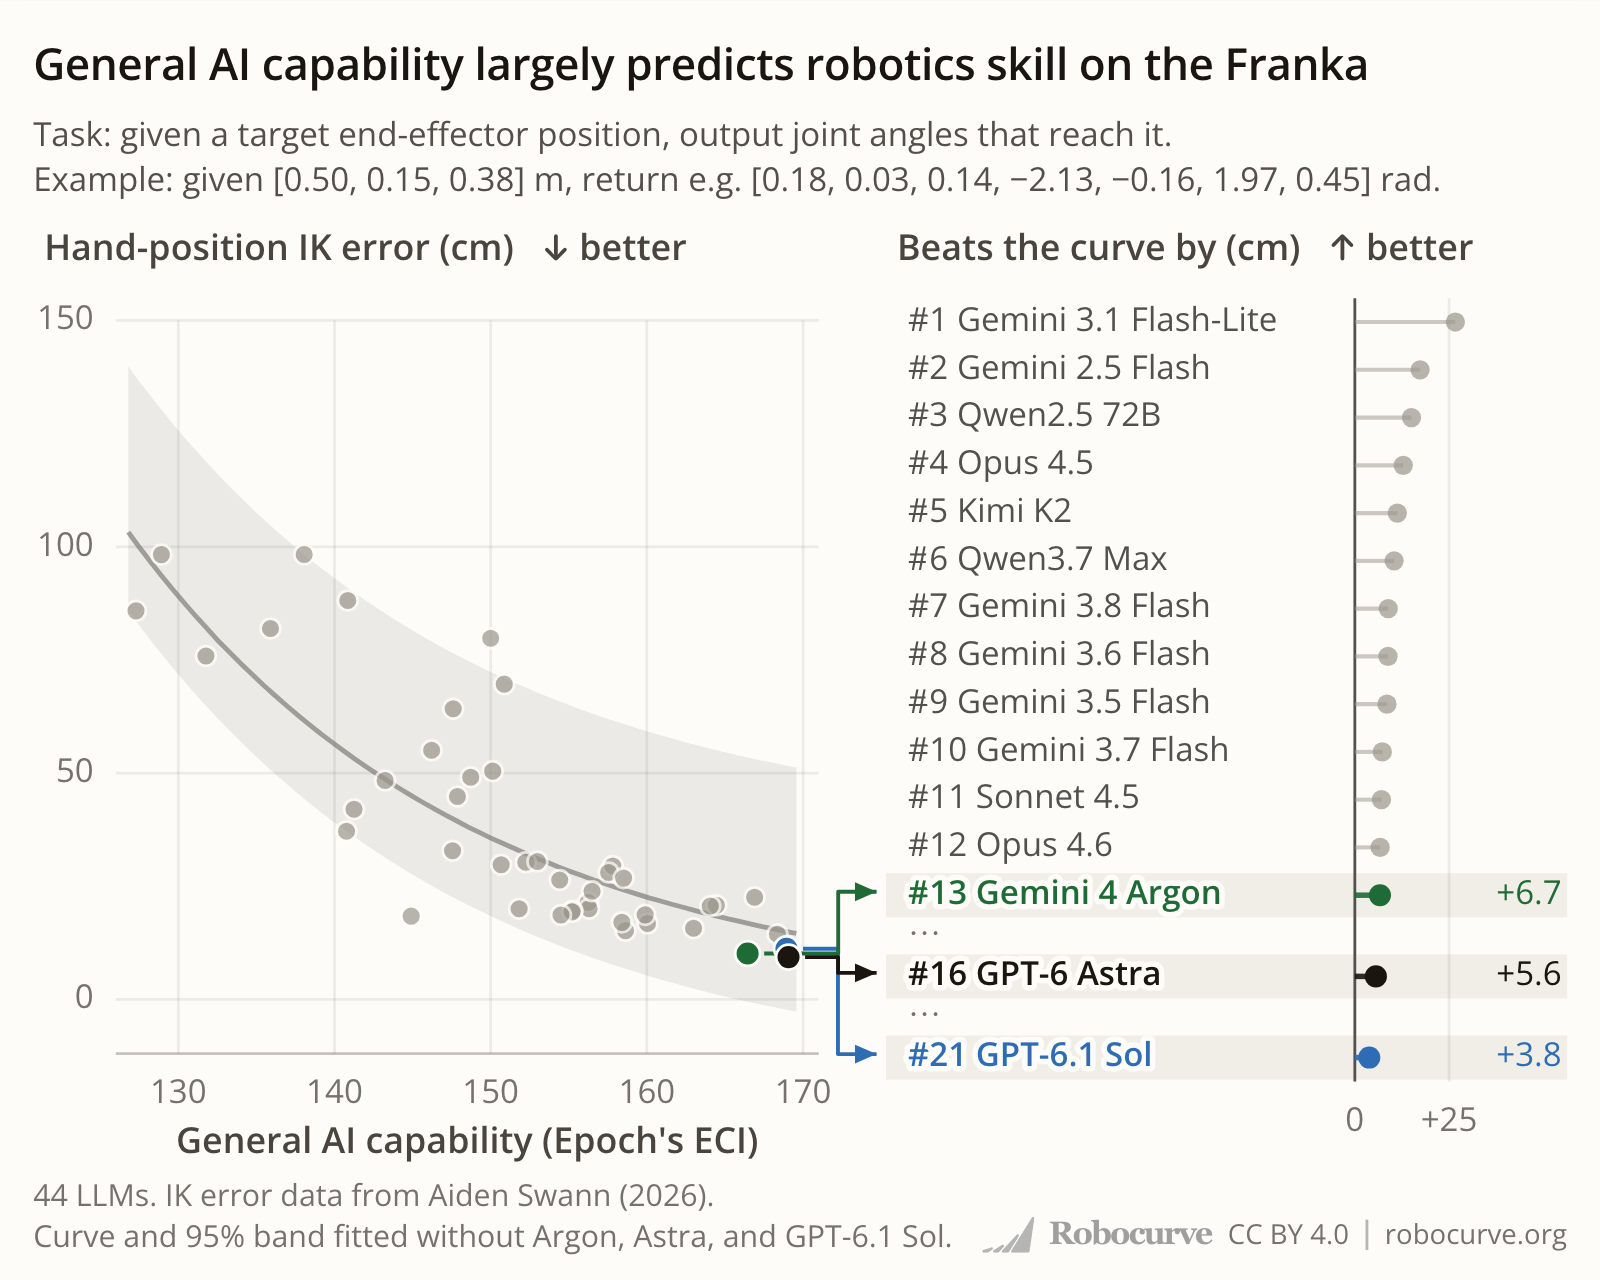
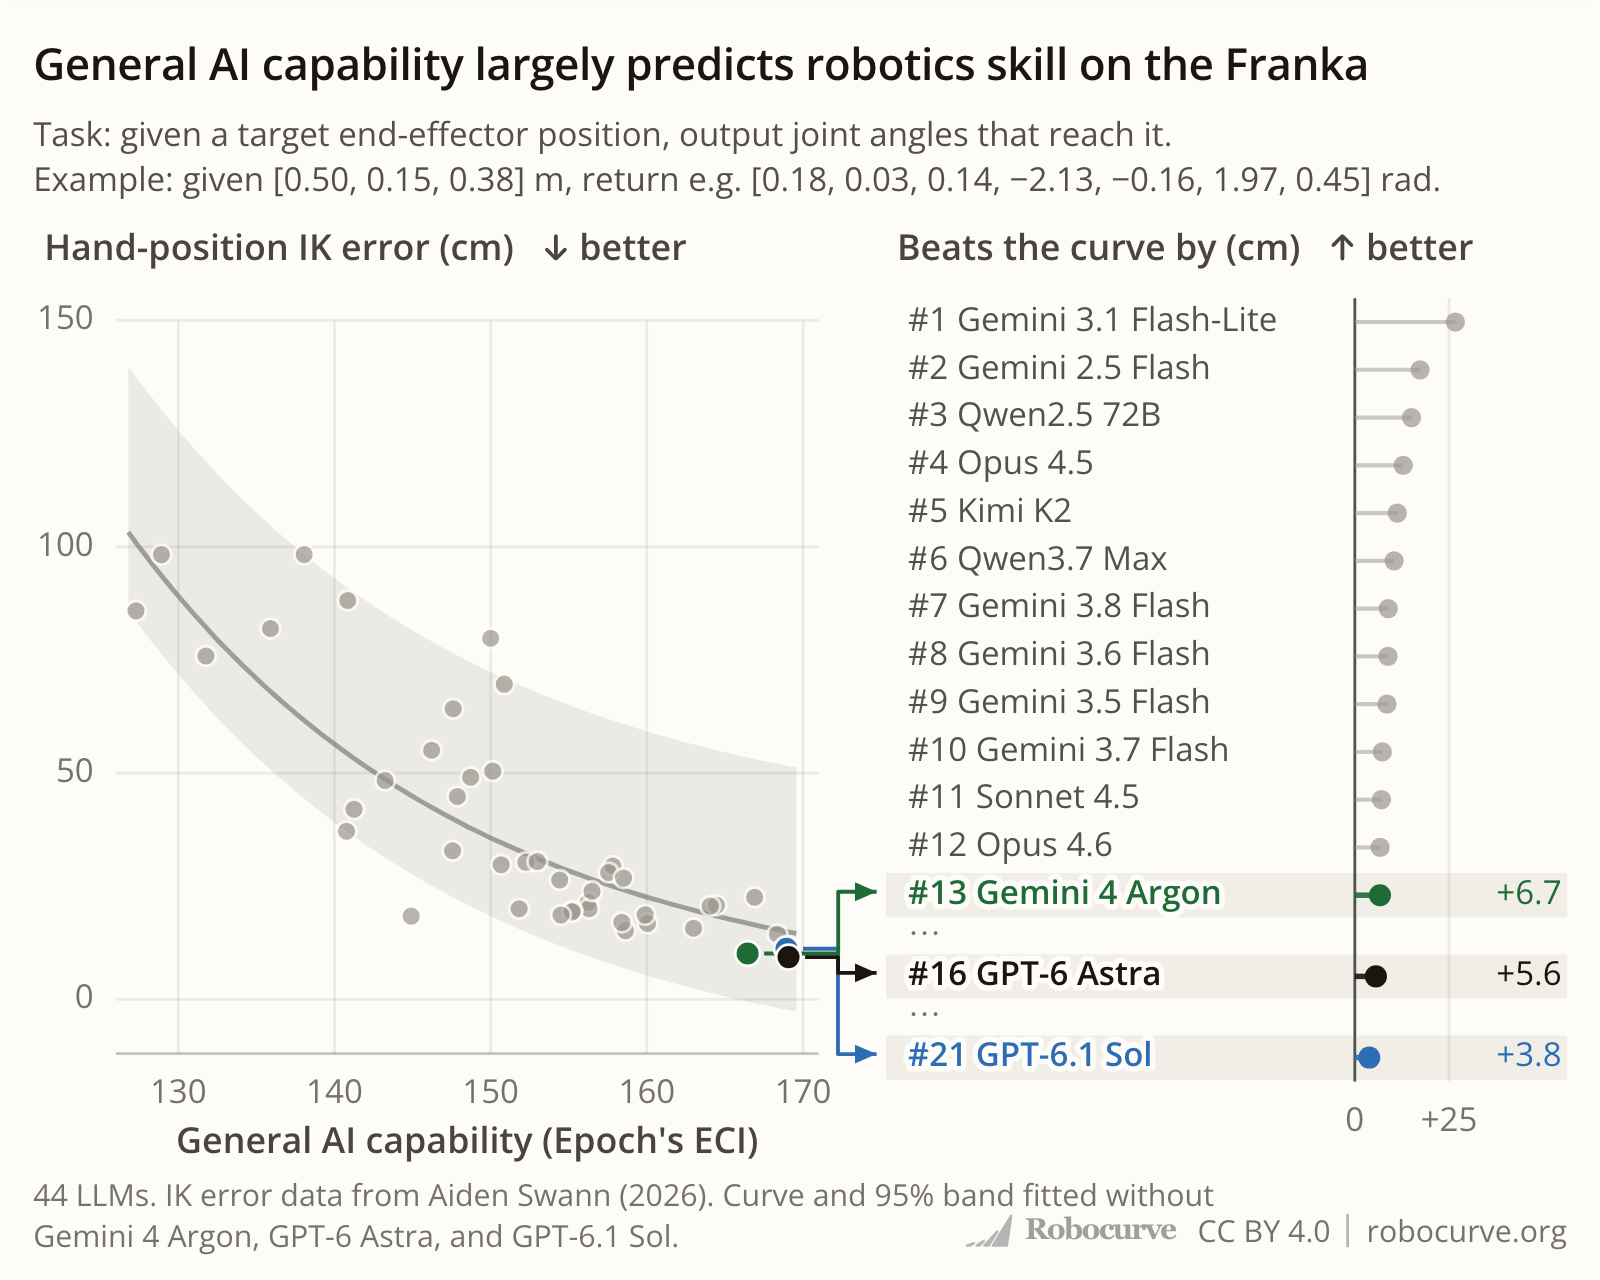
Nov-09: caption names Gemini 4 Argon, GPT-6 Astra and GPT-6.1 Sol in full

Changed region(s): [[0.0312, 0.9062, 0.9688, 1.0]]

diff --git a/tweets/2026/November/Nov-09/site/src/KinematicsCards.jsx b/tweets/2026/November/Nov-09/site/src/KinematicsCards.jsx
@@ -379,7 +379,7 @@ const KW_X = ['Beats the curve by (cm)', 'Beats the curve by (points)', 'Beats t
 const MOBILE_Y = ['Hand-position error (cm)', 'MCQs answered correctly (%)', 'IK error (cm)', 'Distance from real Panda (cm)'];
 function PairChart({ i, metric, topN = 0, mobile = false, wideLeft = false }) {
   const boxRef = useRef(null);
-  const cap = mobile ? <>44 LLMs. {['FK error', 'MCQ', 'IK error', 'Edited-arm'][i]} data from Aiden Swann (2026).<br />Curve and 95% band {wideLeft ? 'fitted without' : 'exclude'} Argon, Astra, and <span style={{ whiteSpace: 'nowrap' }}>GPT-6.1 Sol</span>.</> : PAIR_CAP(metric, topN, i === 1 ? 'points' : 'cm');
+  const cap = mobile ? <>44 LLMs. {['FK error', 'MCQ', 'IK error', 'Edited-arm'][i]} data from Aiden Swann (2026).{wideLeft ? <> Curve and 95% band fitted without<br />Gemini 4 Argon, GPT-6 Astra, and GPT-6.1 Sol.</> : <><br />Curve and 95% band exclude Argon, Astra, and <span style={{ whiteSpace: 'nowrap' }}>GPT-6.1 Sol</span>.</>}</> : PAIR_CAP(metric, topN, i === 1 ? 'points' : 'cm');
   // wideLeft (5:4): caption sits under the scatter so the ranking runs down to the footer (user 2026-11-09).
   return (
     <figure className="rc-chart" style={{ flex: 1, minHeight: 0, display: 'flex', flexDirection: 'column' }}>
@@ -392,12 +392,12 @@ function PairChart({ i, metric, topN = 0, mobile = false, wideLeft = false }) {
         <div style={{ flex: mobile ? 1.2 : 1, minWidth: 0, display: 'flex', position: 'relative', zIndex: 1 }}>{cloneElement(KIN_RANK_PANELS[i].chart(), { noCaption: true, rankOnly: true, topN, compact: mobile || topN > 0, ...(i === 3 ? { xTitle: 'Distance below predicted (cm)' } : {}), ...(mobile && i === 0 ? { xTitle: 'Error below predicted (cm)' } : {}), ...(wideLeft ? { xTitle: KW_X[i], hint: i < 3 ? '↑ better' : '↑ more overfit' } : {}) })}</div>
       </div>
       {wideLeft ? ( /* 5:4: caption left, attribution right on one row (user 2026-11-09) */
-        <div style={{ display: 'flex', alignItems: 'flex-end', justifyContent: 'space-between', gap: 8, marginTop: 4 }}>
+        <div style={{ position: 'relative', marginTop: 4 }}>{/* caption line 1 runs full width; line 2 is short and the attribution sits beside it */}
           <figcaption className="rc-chart-cap" style={{ margin: 0, whiteSpace: 'nowrap' }}>{cap}</figcaption>
-          <div style={{ display: 'flex', alignItems: 'center', gap: 6, flexShrink: 0 }}>
-            <Wordmark size={14} aria-label="Robocurve" style={{ opacity: 0.4, filter: 'grayscale(1)' }} />
-            <span style={{ display: 'inline-flex', alignItems: 'center', gap: 6, fontFamily: 'var(--font-sans)', fontSize: 10, color: 'rgba(27,21,15,0.6)' }}>
-              CC BY 4.0<span aria-hidden="true" style={{ width: 1, height: 11, background: 'rgba(27,21,15,0.3)' }} />robocurve.org
+          <div style={{ position: 'absolute', right: 0, bottom: 2, display: 'flex', alignItems: 'center', gap: 8 }}>
+            <Wordmark size={13} aria-label="Robocurve" style={{ opacity: 0.4, filter: 'grayscale(1)' }} />
+            <span style={{ display: 'inline-flex', alignItems: 'center', gap: 6, fontFamily: 'var(--font-sans)', fontSize: 11, color: 'rgba(27,21,15,0.6)' }}>
+              CC BY 4.0<span aria-hidden="true" style={{ width: 1, height: 12, background: 'rgba(27,21,15,0.3)' }} />robocurve.org
             </span>
           </div>
         </div>

diff --git a/tweets/2026/November/Nov-09/site/entry.jsx b/tweets/2026/November/Nov-09/site/entry.jsx
@@ -1,6 +1,6 @@
 /* Mounts the four 5:4 Franka Panda cards (KIN_WIDE54_PANELS, ids kw-*) exactly as the website's unlisted /draft/
    page framed them: 580x464 CSS each, shot at 1600/580 DPR by shot.mjs. The CSS below is copied from src/DraftPage.jsx of
-   robocurve/website (commit 67f4b5a, branch kinematics-draft); the attribution sits inside each card, beside the caption. */
+   robocurve/website (commit 113ce7f, branch kinematics-draft); the attribution sits inside each card, beside the caption. */
 import { createRoot } from 'react-dom/client';
 import { Panel } from './src/Trends.jsx';
 import { KIN_WIDE54_PANELS } from './src/KinematicsCards.jsx';

diff --git a/tweets/2026/November/Nov-09/README.md b/tweets/2026/November/Nov-09/README.md
@@ -39,7 +39,7 @@ Run `./regenerate.sh` to rebuild all four PNGs (1600x1280). It needs Python 3 wi
 
 ## How the images are made
 
-`site/` is a trimmed copy of the `robocurve/website` repo at commit `67f4b5a` (branch `kinematics-draft`,
+`site/` is a trimmed copy of the `robocurve/website` repo at commit `113ce7f` (branch `kinematics-draft`,
 2026-11-09). `package.json`, `package-lock.json`, `tokens/fonts-local.css` and the self-hosted Open Sans and Space
 Grotesk fonts are reused from `tweets/2026/October/Oct-19/site`; `build.mjs` and `shot.mjs` are adapted from it (card
 ids, output names, page title). Code comments in the copied files refer to their source repos (for example, the
@@ -58,5 +58,5 @@ website repo being private, or paths in Robocurve's internal social repo); they 
 ## Verification (2026-11-09)
 
 The regenerated PNGs are 1600x1280, the same as `original/`. Every point, label, arrow and line sits in the same
-place. Against the originals, the mean absolute pixel difference is 1.7 to 2.4 on the 0-255 scale, and 0.5 to 1.3%
+place. Against the originals, the mean absolute pixel difference is 1.8 to 2.5 on the 0-255 scale, and 0.5 to 1.3%
 of pixels differ by more than 64 levels, all at glyph edges (text rasterisation differs between machines).
